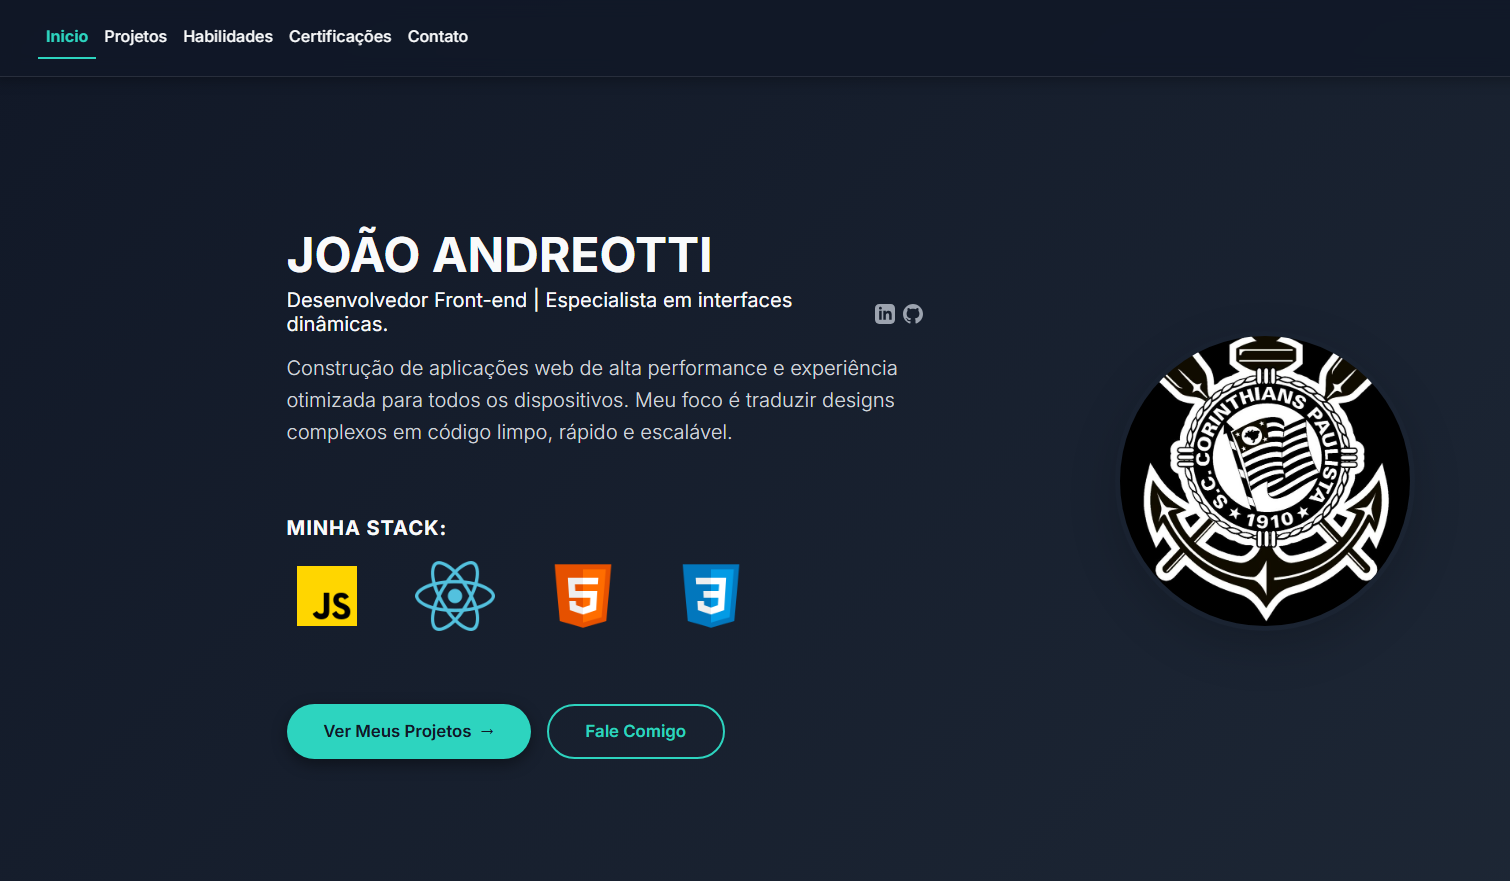
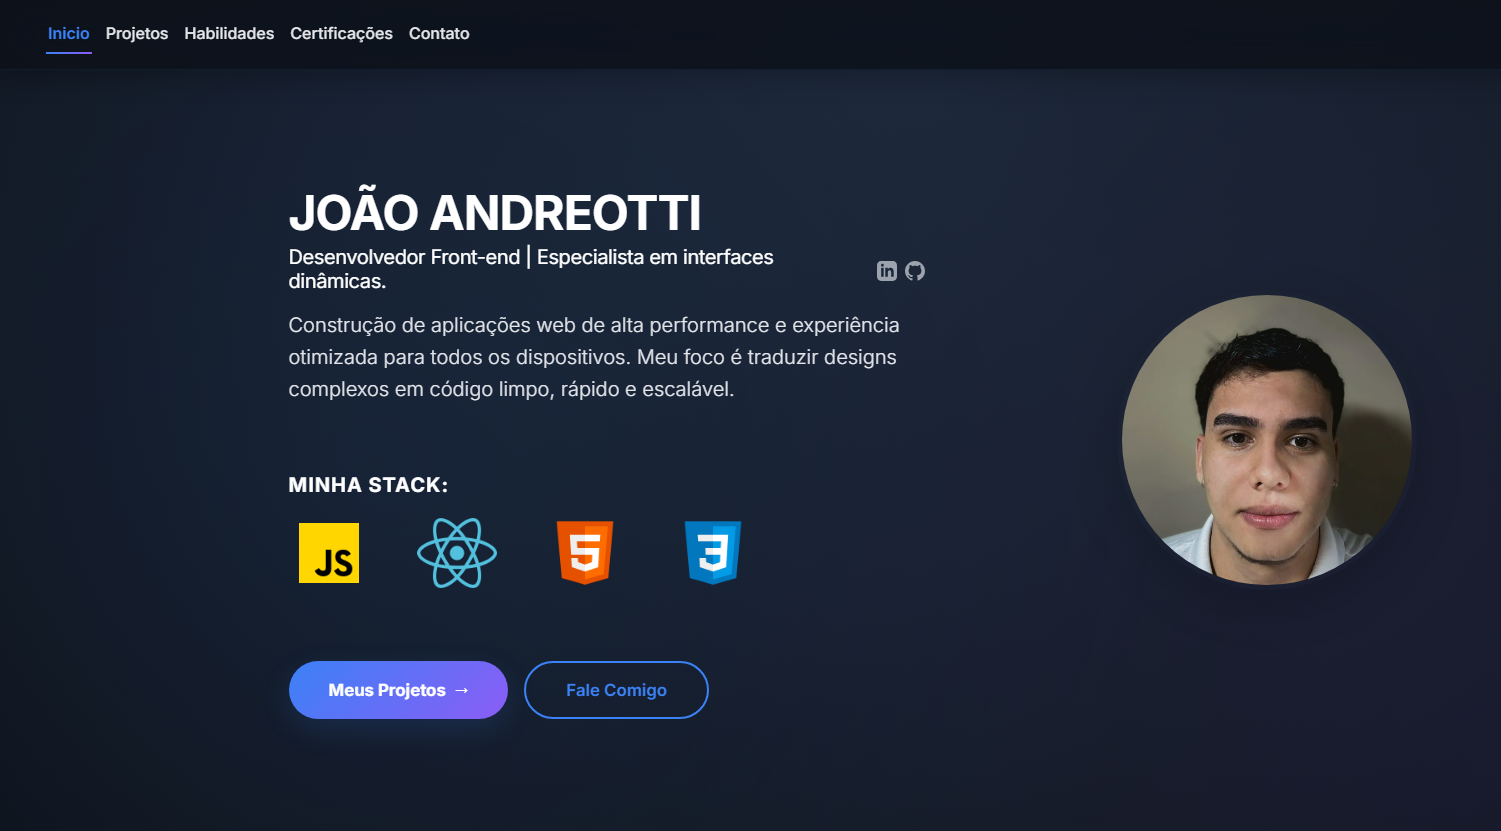
Finalizando projeto

diff --git a/src/components/Pages/Certification/Certification.jsx b/src/components/Pages/Certification/Certification.jsx
@@ -9,7 +9,7 @@ const certificatesData = [
   { id: 3, title: 'JavaScript Avançado', imageSrc: '/certification/JS.jpeg', description: 'Aprofundei meus conhecimentos em JavaScript, explorando técnicas avançadas, padrões de projeto e as últimas funcionalidades da linguagem.' },
   { id: 4, title: 'Introdução ao Python', imageSrc: '/certification/Python.jpeg', description: 'Aprendi os conceitos básicos da linguagem Python, incluindo sintaxe, tipos de dados e estruturas de controle.' },
   { id: 5, title: 'Programação Orientada a Objetos (Java)', imageSrc: '/certification/POO.jpeg', description: 'Estudei os princípios da Programação Orientada a Objetos utilizando a linguagem Java como base.' },
-  { id: 6, title: 'React Essencial e Avançado', imageSrc: '/certification/React.jpeg', description: 'Aprofundei meus conhecimentos no framework React, desde os conceitos fundamentais até tópicos mais avançados para construção de interfaces.' }
+  { id: 6, title: 'React do Zero a Maestria', imageSrc: '/certification/React.jpg', description: 'Aprofundei meus conhecimentos no framework React, desde os conceitos fundamentais até tópicos mais avançados para construção de interfaces.' }
 ];
 
 function Certification() {

diff --git a/src/components/Header/Header.jsx b/src/components/Header/Header.jsx
@@ -38,18 +38,6 @@ function Header() {
             </li>
           </ul>
 
-          <ul className="navbar-nav d-none d-lg-flex align-items-center">
-            <li className="nav-item">
-              <Link className="nav-link" to="/">
-                <img
-                  src="/logo.jpg"
-                  alt="Foto de Perfil"
-                  className="profile-photo-nav"
-                />
-              </Link>
-            </li>
-          </ul>
-
         </div>
       </div>
     </nav>

diff --git a/src/components/Pages/Projects/Projects.jsx b/src/components/Pages/Projects/Projects.jsx
@@ -37,7 +37,7 @@ const allProjectsData = [
     title: "JobFinder",
     description: "Um site de busca de emprego completo, com front-end em React e integração com backend.",
     imageUrl: "/sites/site1.png",
-    siteUrl: "https://job-finder-one-eta.vercel.app/",
+    siteUrl: "https://job-finder-front.vercel.app/",
     githubUrl: "https://github.com/JoaoAndreotti90/job-finder-front",
     tags: ["React", "Node.js", "CSS", "Full-Stack"],
     category: "React" 

diff --git a/src/components/Pages/Home/Home.jsx b/src/components/Pages/Home/Home.jsx
@@ -63,7 +63,7 @@ function Home() {
 
         <div className="image-block col-md-6 text-center order-1 order-md-2 mb-4 mb-md-0">
           <img
-            src="/logo.jpg"
+            src="/perfil.jpeg"
             alt="Foto de Perfil de João Andreotti"
             className="profile-pic-home shadow-lg"
           />

diff --git a/src/components/Header/Header.css b/src/components/Header/Header.css
@@ -26,13 +26,6 @@
   border-bottom: 2px solid transparent;
 }
 
-.profile-photo-nav {
-  height: 40px;
-  width: 40px;
-  border-radius: 50%;
-  object-fit: cover;
-}
-
 @media (min-width: 992px) {
   .navbar {
     padding-left: 2rem;
